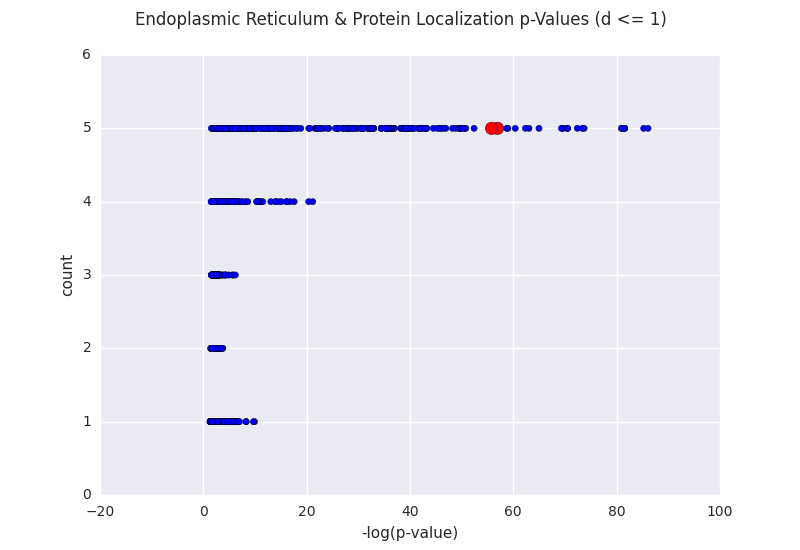
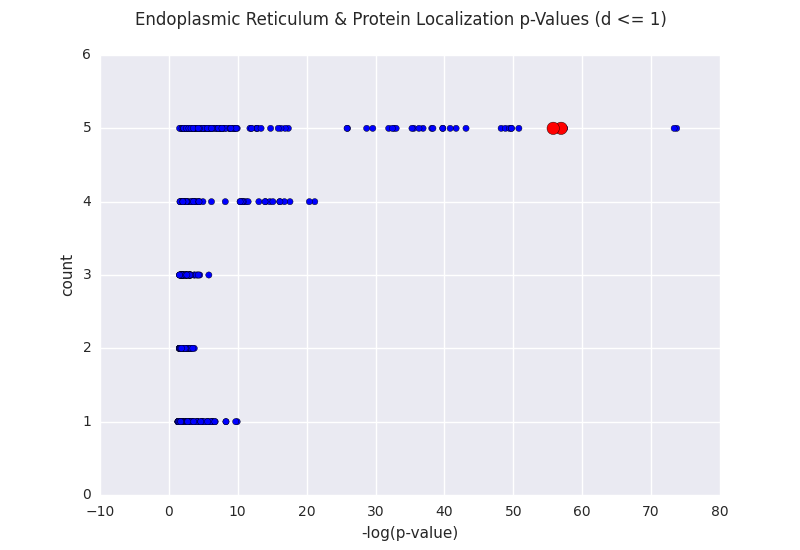
added num_entries < 10000 criterion

diff --git a/scripts/14_create_localization_stripplot.py b/scripts/14_create_localization_stripplot.py
@@ -5,7 +5,12 @@ import matplotlib.pyplot as plt
 import math
 import numpy as np
 import pandas as pd
+import requests
 import seaborn as sns
+
+def _get_num_entries(ID):
+    url = 'http://geneontology-golr.stanford.edu/solr/select?&wt=json&fq=regulates_closure:"%s"&fq=document_category:"annotation"&q=*:*' % (ID,)
+    return requests.get(url).json()['response']['numFound']
 
 def generate_stripplot(max_distance, category_filter, title, output):
     protein_pairs = ('HA-GP160', 'M2-GP160', 'M2-VPR', 'NA-GP160', 'NA-VPU')
@@ -19,10 +24,11 @@ def generate_stripplot(max_distance, category_filter, title, output):
         for ontology in ontologies:
             file = 'output/ontology/' + protein_pair + '_' + ontology + '_up-to-' + str(max_distance) + '.tsv'
             with open(file) as f:
-                for line in f.read().splitlines()[2:]:
+                for i, line in enumerate(f.read().splitlines()[2:]):
+                    print i
                     label, ref, ID, url, p_value = line.split('\t')
                     p_value = float(p_value)
-                    if p_value > 0.05 or p_value == 0:
+                    if p_value > 0.05 or p_value == 0 or _get_num_entries(ID) > 10000:
                         continue
                     labels[ID] = label
                     p_values[ID].append(float(p_value))
@@ -38,7 +44,7 @@ def generate_stripplot(max_distance, category_filter, title, output):
     colors = map(lambda x: 'r' if category_filter(x, labels) else 'b', IDs)
     areas = map(lambda x: 80 if category_filter(x, labels) else 20, IDs)
 
-    for ID in sorted(sorted(filter(lambda x: category_filter(x, labels), IDs), key=p_value_averages.get), key=counts.get, reverse=True):
+    for ID in sorted(sorted(IDs, key=p_value_averages.get), key=counts.get, reverse=True):
         label, count, p_value_avg = labels[ID], counts[ID], p_value_averages[ID]
         print '\t'.join((ID, label, str(counts[ID]), str(p_value_avg)))
     print
@@ -61,15 +67,15 @@ def is_localization(ID, labels):
 def is_localization_or_ER(ID, labels):
     return is_ER(ID, labels) and is_localization(ID, labels)
 
-generate_stripplot(1, is_ER, 'Endoplasmic Reticulum p-Values (d <= 1)',
-                   'output/figures/ER_stripplot_up-to-1.png')
-generate_stripplot(1, is_localization, 'Protein Localization p-Values (d <= 1)',
-                   'output/figures/protein-localization_stripplot_up-to-1.png')
+#generate_stripplot(1, is_ER, 'Endoplasmic Reticulum p-Values (d <= 1)',
+#                   'output/figures/ER_stripplot_up-to-1.png')
+#generate_stripplot(1, is_localization, 'Protein Localization p-Values (d <= 1)',
+#                   'output/figures/protein-localization_stripplot_up-to-1.png')
 generate_stripplot(1, is_localization_or_ER, 'Endoplasmic Reticulum & Protein Localization p-Values (d <= 1)',
                    'output/figures/protein-localization_ER_stripplot_up-to-1.png')
-generate_stripplot(0, is_ER, 'Endoplasmic Reticulum p-Values (d = 0)',
-                   'output/figures/ER_stripplot_up-to-0.png')
-generate_stripplot(0, is_localization, 'Protein Localization p-Values (d = 0)',
-                   'output/figures/protein-localization_stripplot_up-to-0.png')
-generate_stripplot(0, is_localization_or_ER, 'Endoplasmic Reticulum & Protein Localization p-Values (d = 0)',
-                   'output/figures/protein-localization_ER_stripplot_up-to-0.png')
+#generate_stripplot(0, is_ER, 'Endoplasmic Reticulum p-Values (d = 0)',
+#                   'output/figures/ER_stripplot_up-to-0.png')
+#generate_stripplot(0, is_localization, 'Protein Localization p-Values (d = 0)',
+#                   'output/figures/protein-localization_stripplot_up-to-0.png')
+#generate_stripplot(0, is_localization_or_ER, 'Endoplasmic Reticulum & Protein Localization p-Values (d = 0)',
+#                   'output/figures/protein-localization_ER_stripplot_up-to-0.png')
